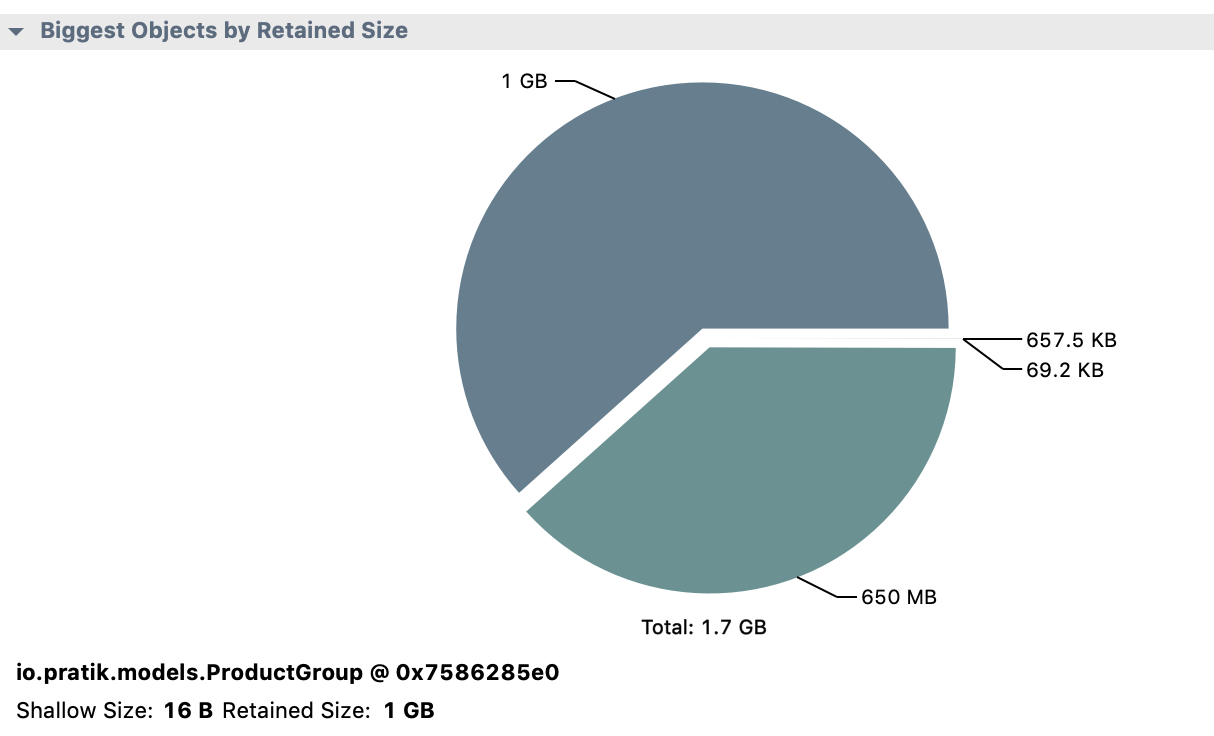
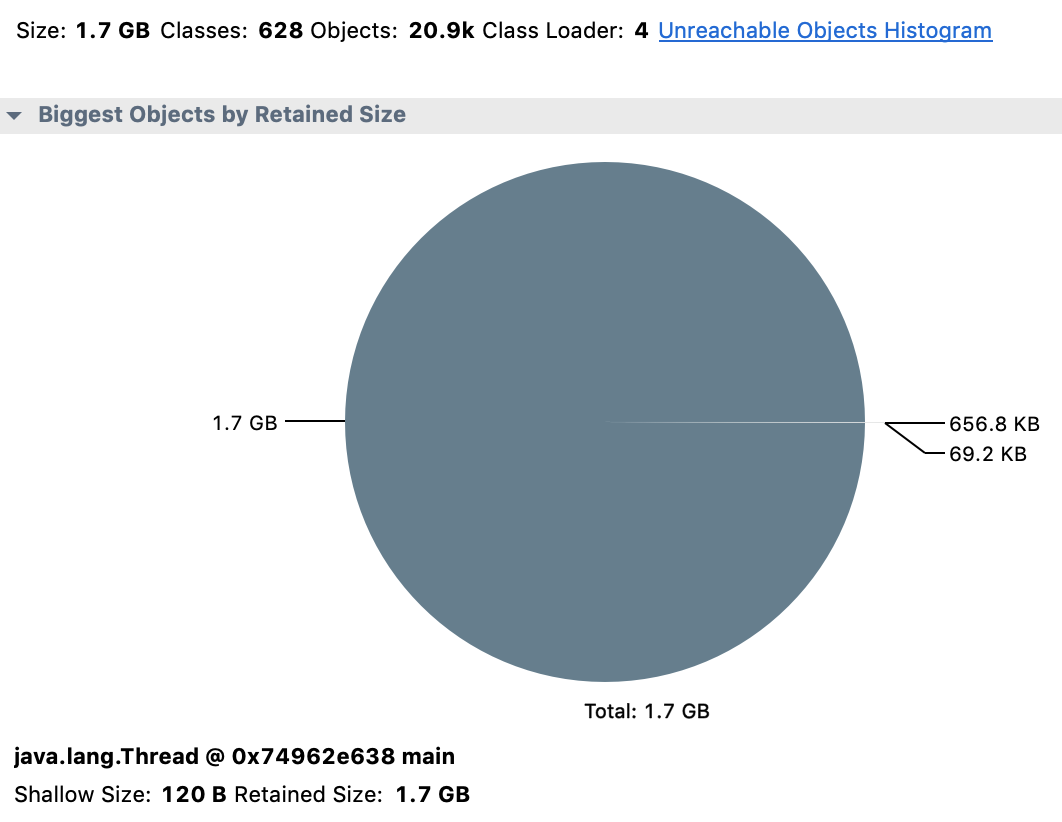
modified

diff --git a/_posts/2021-01-27-create-analyze-heapdump.md b/_posts/2021-01-27-create-analyze-heapdump.md
@@ -107,7 +107,7 @@ We will now find the cause of this error by doing a heap dump analysis. This is 
 We can capture heap dump in multiple ways.Let us capture the heap dump for our example first with `jmap` and then by passing a `VM` argument in the command line:
 
 ### Generating Heap Dump on Demand with jmap
-jmap is packaged with JDK and extracts the heap dump to a specified file location. 
+`jmap` is packaged with JDK and extracts the heap dump to a specified file location. 
 
 For generating heap dump with `jmap`, we first find the process ID of our running Java program with the `jps` tool to list down all the running Java processes on our local machine:
 
@@ -159,11 +159,12 @@ Some of the other methods of generating a heap dump are:
 jcmd tool is used to send diagnostic command requests to the JVM. It is packaged as part of JDK. It can be found in \bin folder.
 
 2. JVisualVM
-Usually analyzing heap dump takes more memory than the actual heap dump size. This could be problematic if we are trying to analyze heap dump from a large server on a development machine. For instance, a server may have crashed with a heap dump of size 24 GB and your local machine may only have 16 GB of memory. Therefore, tools like MAT, Jhat won’t be able to load the heap dump file. In this case, you should either analyze the heap dump on the same server machine which doesn’t have memory constraint or use live memory sampling tools provided by VisualVM.
+Usually analyzing heap dump takes more memory than the actual heap dump size. This could be problematic if we are trying to analyze heap dump from a large server on a development machine. 
+
+For example, a server may have crashed with a heap dump of size 24 GB and our local machine may only have 16 GB of memory. Therefore, tools like MAT will not be able to load the heap dump file. In this case, we should either analyze the heap dump on the same server machine if it does not have any memory constraint or use live memory sampling tools provided by VisualVM.
 
 3. JMX
 
-4. Programmatic
 
 ### Analyzing the Heap Dump
 Some of the answers we look for by analyzing the heap dump are :
@@ -180,11 +181,38 @@ We will first start the Memory Analyzer Tool and open the heap dump file. In Ecl
 **Retained heap size**: Retained heap is the amount of memory that will be freed when an object is garbage collected. 
 
 #### Overview Section in MAT
-After opening the heap dump, we see a piechart of the biggest objects by retained size in the `overview` tab as shown here:
+After opening the heap dump, we will see an overview of the applications memory usage.
+The piechart shows the biggest objects by retained size in the `overview` tab as shown here:
 
 ![PieChart](/assets/img/posts/heapdump/piechart.png)
 
-For our application, `ProductGroup` and `ProductManager` are the biggest objects with retained sizes 1 GB and 650 MB respectively.
+For our application, this information in the overview means if we could dispose a particular instance of `java.lang.Thread` we will save 1.7 GB, and almost 100% of the memory used in this application. 
+
+#### Histogram View
+While that might look promising, java.lang.Thread is unlikely to be the real problem here. To get a better insight of what objects currently exist, we will use the Histogram view:
+
+![histogram](/assets/img/posts/heapdump/histogram.png)
+
+We have filtered the histogram with a regular expression "io.pratik.* " to show only the classes that match the pattern. With this view, we can see the number of live objects: for example, 243 `BrandedProduct` objects, and 309 `Price` Objects are alive in the system. We can also see the amount of memory each object is using. 
+
+There are two calculations, Shallow Heap and Retained Heap.  Shallow heap is the amount of memory consumed by one object. An Object requires 32 (or 64 bits, depending on the architecture) for each reference. Primitives such as integers and longs require 4 or 8 bytes, etc… While this can be interesting, the more useful metric is the Retained Heap.
+
+#### Retained Heap
+The retained heap is computed by adding the size all the objects in the retained set. A retained set of X is the set of objects which would be removed by the GC when X is collected.
+
+The retained heap can be calculated in two different ways, using the quick approximation or the precise retained size:
+
+![retainedheap](/assets/img/posts/heapdump/retainedheap.png)
+
+By calculating the Retained Heap we can now see that io.pratik.ProductGroup is holding the majority of the memory, even though it is only 32 bytes(shallow heap size) by itself. By finding a way to free up this object, we can certainly get our memory problem under control.
+
+#### Dominator Tree
+The key to understanding the retained heap, is looking at the dominator tree. The dominator tree is a tree produced by the complex object graph generated at runtime. The dominator tree helps to identify the largest memory graphs. An Object X is said to dominate an Object Y if every path from the Root to Y must pass through X. Looking at the dominator tree for our example, we can start to see where the bulk of our memory is leaking.
+![dominatortree](/assets/img/posts/heapdump/dominatortree.png)
+By looking at the dominator tree, we can easily see that it’s not the java.lang.Thread that’s the problem, but rather the `ProductGroup` object that holds the memory. All 100,000 Listeners are being retained by the Controller. By either removing freeing these objects, or freeing the lists that they contain, we can likely improve our situation. 
+
+#### Object References
+`ProductGroup` and `ProductManager` are the biggest objects with retained sizes 1 GB and 650 MB respectively.
 
 We will now see the objects present in the heap by selecting `ProductGroup` in the piechart and then selecting `List Objects` -> `with outgoing references` from the context menu:
 ![path to list objects](/assets/img/posts/heapdump/pathtolistobjects.png)
@@ -207,9 +235,9 @@ public class ProductGroup {
 #### Leak Suspects Report
 Next we generate the "Leak Suspects Report" by clicking the “Leak Suspects” link in the overview or by choosing this option from the menu.
 
-Before generating this report the Memory Analyzer Tool tries to find suspected big object or set of objects and presents the findings in a HTML report. The HTML report is also saved in a zip file next to the heap dump file. Due to its smaller size, it is preferable to share this report with specialized teams instead of the raw heap dump file.
+Before generating this report the Memory Analyzer Tool tries to find suspected big object or set of objects and presents the findings in a HTML report. The HTML report is also saved in a zip file next to the heap dump file. Due to its smaller size, it is preferable to share this report with teams specialized in performing analysis tasks instead of the raw heap dump file.
 
-The first thing in the report is the pie chart, which gives the size of the suspects: 
+The first thing in the report is the pie chart, which gives the size of the suspected objects: 
 
 ![leakssuspectPieChart](/assets/img/posts/heapdump/leaksuspectpiechart.png)
 
@@ -218,59 +246,6 @@ For our example, we have two suspects labelled as "Problem Suspect 1" and "Probl
 ![leakssuspects](/assets/img/posts/heapdump/leaksuspects.png)
 
 
-#### Locating the Leak Suspect
-
-We get the `OutOfMemoryError` when the application tries to add more objects into the heap which is already full with objects and the garbage collector is not able to free up the memory because all the objects in heap still have some references. This situation will arise when :
-
-1. The application requires more memory to run because the currently allocated heap size is not enough to accommodate the objects generated during the run time, or 
-
-2. The application is keeping the references of unwanted objects.
-
-The solution for the first reason is to increase the heap size. But the solution for the second is analyzing the heap dump to identify the unwanted objects in the heap. 
-
-Apart from the leak suspect report, we can also investigate memory leaks with predefined queries:
-
-**Java Basics -> Open in Dominator Tree**: The Dominator Tree is produced from the object graph in the heap dump and helps us to easily identify dependencies of objects. If an object would be removed from the heap, then all of its descendants in the dominator tree would be garbage collected.
-
-![dominatortree](/assets/img/posts/heapdump/dominatortree.png)
-
-The dominator tree for our example shows our 2 objects : `ProductGroup` and `ProductManager`.
-
-Java Basics -> Duplicate Classes
-Leak Identification -> Top Consumers
-Leak Identification -> Big Drops in Dominator Tree
-Path to GC Roots -> With All References
-Histogram:
-
-When the heap dump is opened for the first time, several index files get created, which enable us to access the data efficiently afterwards. A dominator tree is also built out of the object graph.
-
-The dominator tree models the keep alive dependencies among the objects in the heap. In this tree, every object is keeping alive all of its descendants. This means that if an object would be removed from the heap, then all of its descendants in the dominator tree would be garbage collected. The size of the object and all other objects it keeps alive we call retained size. 
-
-the dominator tree can show us the biggest objects in the heap. Using the property from the previous point it is very easy to compute the retained size for every single object. Then ordering the objects by size is trivial.
-
-It presents a part of the dominator tree and the size of the circles represents the retained size of the objects: the bigger the circle, the bigger the object.
-
-We simply treat all objects with size over a certain threshold as suspects. 
-In our case these are `ProductGroup` and `ProductManager`
-Then we go down the dominator tree and try to reach an object all of whose children are significantly smaller in size. This is what we call the “accumulation point”. Then we just take these two objects - the suspect and the accumulation point - and use them to describe the problem.
-
-### Reachability
-GC is perfomed in two steps:
-1. Mark all objects reachable from GC root. These are called reachable
-2. Sweep all objects not reachable from GC root.
-
-
-The GC roots are the objects accessible from outside the heap. The GC algorithms build a tree of live objects starting from these GC roots.
-Some GC roots are:
-
-System Class: Class loaded by bootstrap/system class loader.
-Thread Block: Objects referred to from currently active thread blocks. (Basically all objects in active thread blocks when a GC is happening are GC roots)
-Thread: Active Threads
-Java Local: All local variables (parameters, objects or methods in thread stacks)
-JNI Local: Local variables in native code
-JNI Global: Global variables in native code
-
-We can see that the GC root of the instance of class `ProductGroup` is the main thread.
 ## Conclusion
 In this post we introduced Heap Dump as a snapshot of Java's object memory graph. We then saw different ways of capturing a Heap Dump.  We also looked at some of basic concepts of heap dump analysis with Eclipse Memory Analyzer using a sample application. I covered some basics of generating heap dumps, reachability, GC roots, shallow vs. retained heap, and dominator tree.
 There are many more things that I haven’t covered. For example, the Object Query Language (OQL). The OQL is an SQL-like language. When comparing with SQL, we can consider classes as tables, objects as rows and fields as columns. I didn’t use OQL with the sample application, but there are many cases that OQL will be very useful. Eclipse MAT’s help is the best place to start learning OQL.
